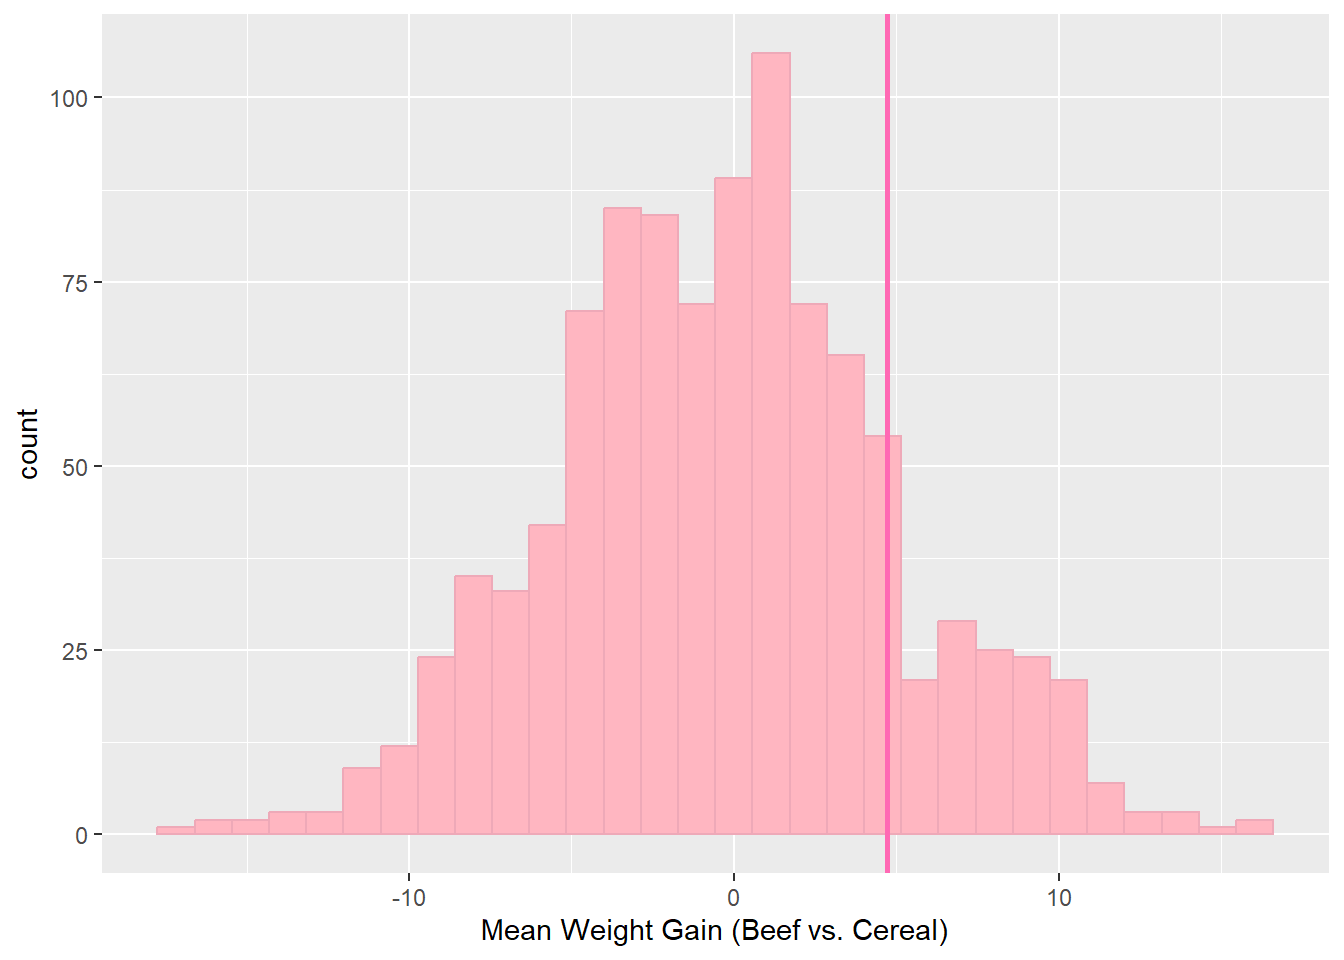
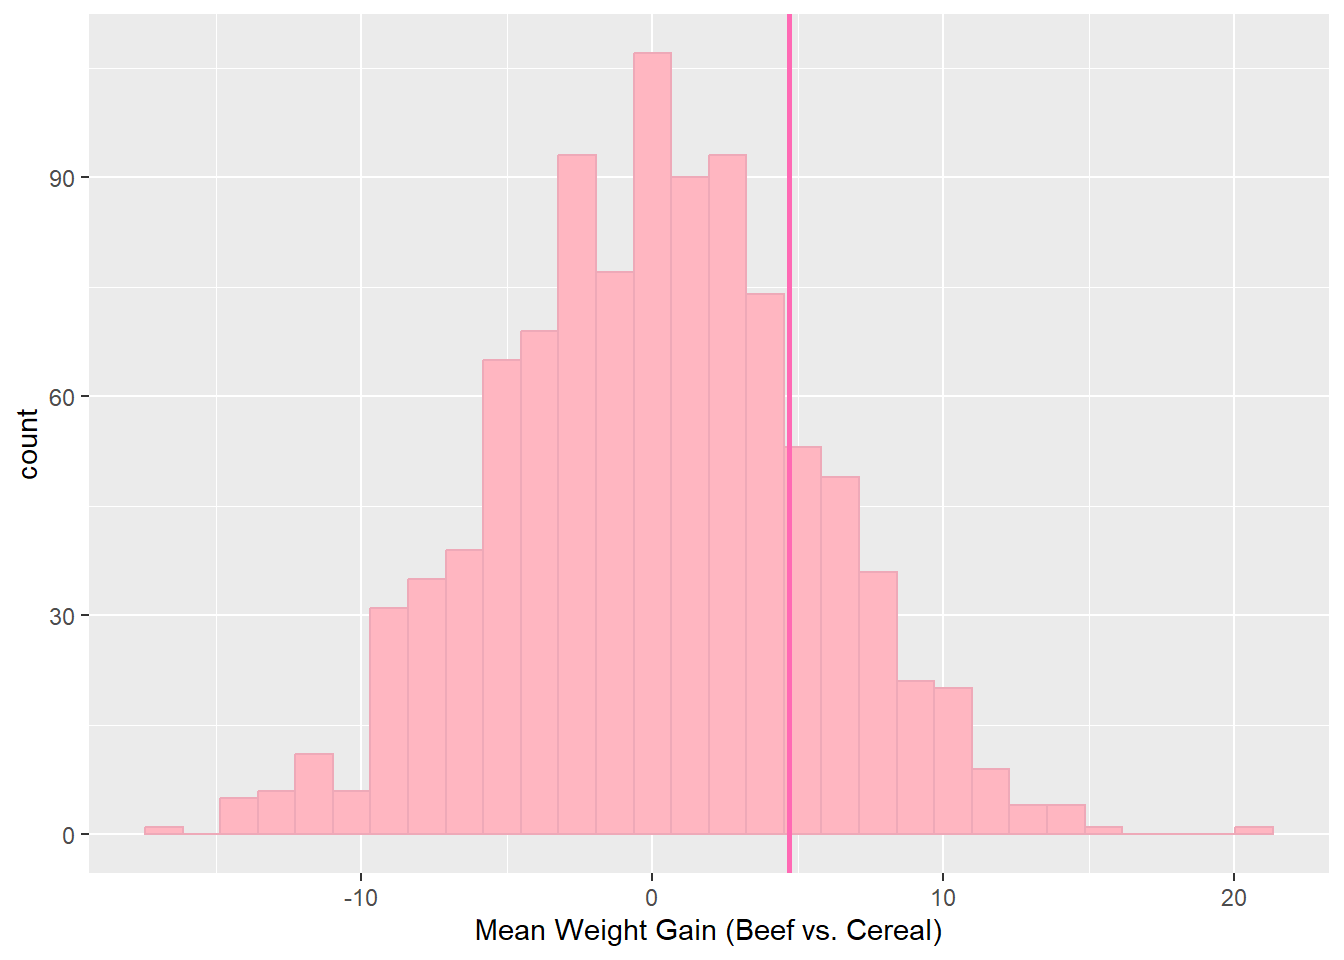
RaTaToUiLlE!

diff --git a/docs/mini_project2.html b/docs/mini_project2.html
@@ -110,7 +110,7 @@ ul.task-list li input[type="checkbox"] {
   </li>  
   <li class="nav-item">
     <a class="nav-link" href="./RATATOUILLE.html" rel="" target="">
- <span class="menu-text">Mini Project 3</span></a>
+ <span class="menu-text">Strings &amp; Regular Expressions</span></a>
   </li>  
 </ul>
             <div class="quarto-navbar-tools ms-auto">
@@ -163,7 +163,7 @@ ul.task-list li input[type="checkbox"] {
 <p><img src="mini_project2_files/figure-html/unnamed-chunk-4-1.png" class="img-fluid" width="672"></p>
 </div>
 <div class="cell-output cell-output-stdout">
-<pre><code>Beef vs. Pork p-value: 0.263 </code></pre>
+<pre><code>Beef vs. Pork p-value: 0.303 </code></pre>
 </div>
 </div>
 <div class="cell">
@@ -171,7 +171,7 @@ ul.task-list li input[type="checkbox"] {
 <p><img src="mini_project2_files/figure-html/unnamed-chunk-5-1.png" class="img-fluid" width="672"></p>
 </div>
 <div class="cell-output cell-output-stdout">
-<pre><code>Beef vs. Cereal p-value: 0.265 </code></pre>
+<pre><code>Beef vs. Cereal p-value: 0.294 </code></pre>
 </div>
 </div>
 <div class="cell">
@@ -179,7 +179,7 @@ ul.task-list li input[type="checkbox"] {
 <p><img src="mini_project2_files/figure-html/unnamed-chunk-6-1.png" class="img-fluid" width="672"></p>
 </div>
 <div class="cell-output cell-output-stdout">
-<pre><code>Pork vs. Cereal p-value: 0.279 </code></pre>
+<pre><code>Pork vs. Cereal p-value: 0.291 </code></pre>
 </div>
 </div>
 <p>As we can see, all of the p-values are close to 0.3. Generally, if the p-value is less than 0.05, we will consider the results of the study statistically significant. Because these results are well over the point of statistical significance, we can fail to reject the null hypothesis and claim that the difference in weight gains due to different proteins is not statistically significant.</p>
